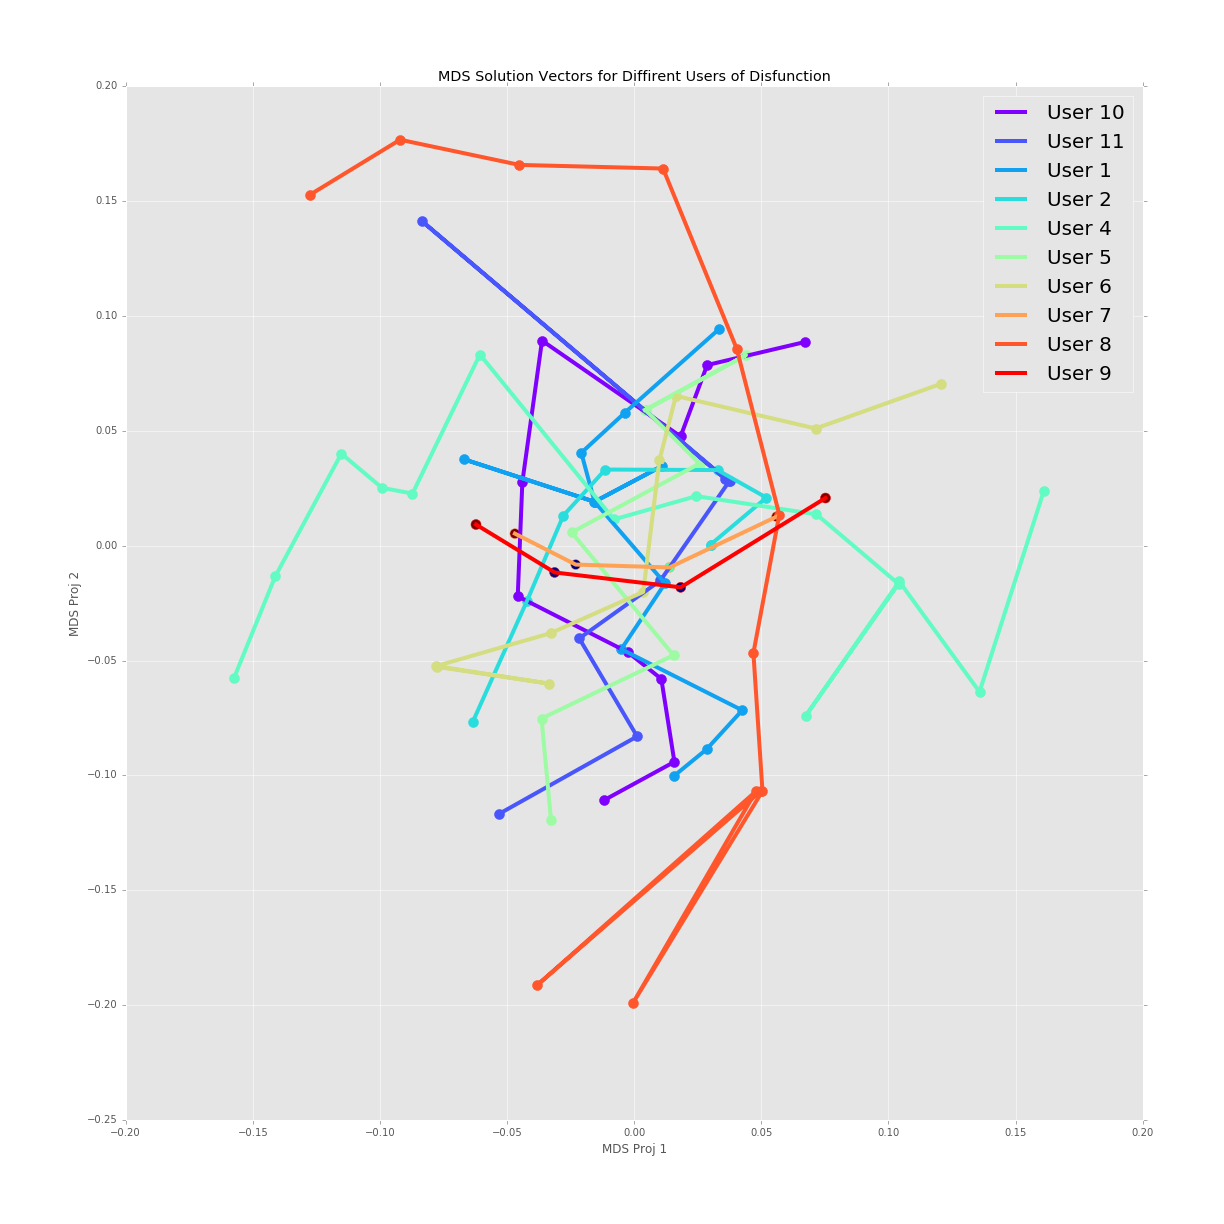
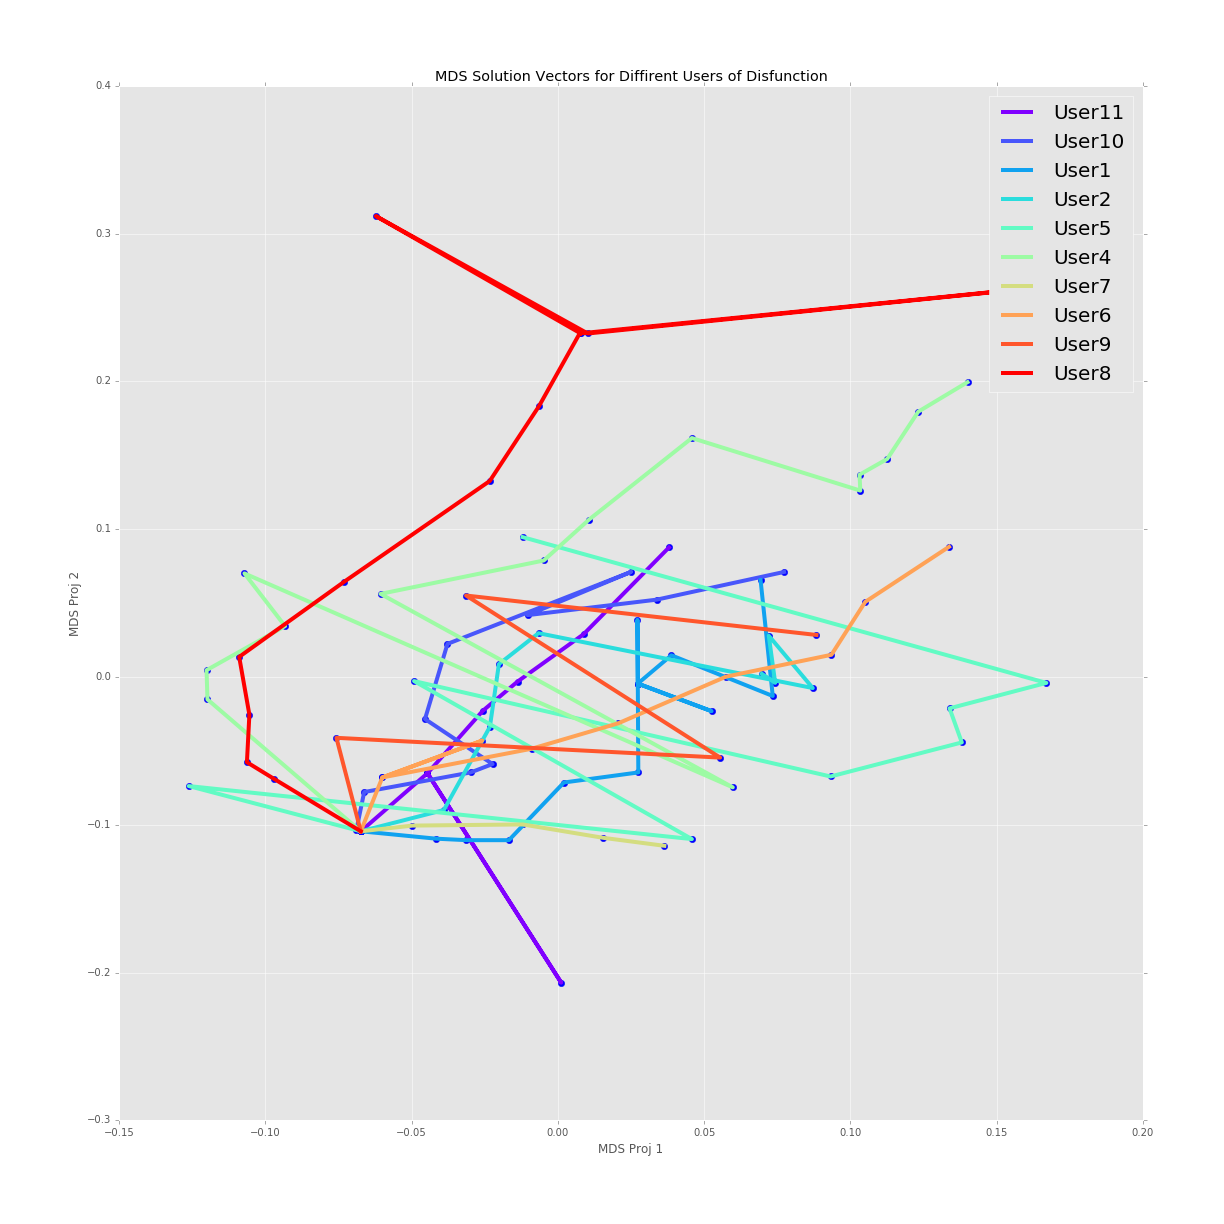
MDS code changed, initial start added

diff --git a/readLogFiles.py b/readLogFiles.py
@@ -30,10 +30,11 @@ from sklearn.manifold import TSNE
 from sklearn.manifold import MDS
 import datetime
 import random
+from sklearn.decomposition import PCA
 
 
-os.chdir('/Users/Sriram/Desktop/DePaul/model-space-analysis')
-#os.chdir('C:/Users/SYARLAG1/Desktop/Model-Space-Analysis')
+#os.chdir('/Users/Sriram/Desktop/DePaul/model-space-analysis')
+os.chdir('C:/Users/SYARLAG1/Desktop/Model-Space-Analysis')
 
 sampleFile = pickle.load(open('no15812_newproj.pickle'))
 
@@ -47,7 +48,8 @@ def multiSplit(delimiters, string, maxsplit=0):
     regexPattern = '|'.join(map(re.escape, delimiters))
     return re.split(regexPattern, string, maxsplit)
 
-def logFileParse(fileName, random_state=99, reductionMethod = 'mds'):
+def logFileParse(fileName, random_state=99, reductionMethod = 'mds', returnListNoProj = True):
+    global vectorLst
     text = open(fileName, 'r').read()
     delimiters = '__DICT1__','__DICT2__', 'normed result theta:','Performing CLOSER transform','__END__'
     textLst = multiSplit(delimiters, text)
@@ -70,12 +72,53 @@ def logFileParse(fileName, random_state=99, reductionMethod = 'mds'):
                 vectorLst.append(vectorLst[-2])
             else:
                 vectorLst.append(line.split(','))
+    vectorLst.insert(0,[1./len(vectorLst[1])]*len(vectorLst[1]))#Adding the starting point as all 1s
+    if returnListNoProj: return len(vectorLst),vectorLst 
     vectorMat = np.array(vectorLst, dtype='float64')
     if reductionMethod == 'tsne': redVectorMat = TSNE(n_components=2, random_state=random_state).fit_transform(vectorMat)
     if reductionMethod == 'mds': 
         redVectorMat = MDS(n_components=2, random_state=random_state,dissimilarity='euclidean').fit_transform(vectorMat)
     return redVectorMat
 
+####################Running the function and generating the MDS proj#######
+os.chdir('./user_sequence_data')
+logFileLst = os.listdir('./')
+
+fullLst = []
+lstCounts = {}
+for log in logFileLst:
+    print log
+    name = log[1:2]
+    if len(log) == 11: name = log[1:3]
+    logSize, logLst = logFileParse(log)
+    fullLst = fullLst + logLst
+    lstCounts[name] = logSize
+
+'''
+vectorMat = np.array(fullLst, dtype='float64')
+start = 0; end = 0 
+lstDict = {}
+for logID in ['10','11','1','2','4','5','6','7','8','9']:
+    end = end + lstCounts[logID]
+    print start, ' ', end
+    lstDict[logID] = vectorMat[start:end]
+    start = end
+'''
+
+
+##Performing MDS on the entire data:
+vectorMat = np.array(fullLst, dtype='float64')
+redVectorMat = MDS(n_components=2, random_state=99,dissimilarity='euclidean').fit_transform(vectorMat)
+#redVectorMat = PCA(n_components=2).fit_transform(vectorMat)
+
+start = 0; end = 0 
+MDSresultDict = {}
+for logID in ['10','11','1','2','4','5','6','7','8','9']:
+    end = end + lstCounts[logID]
+    MDSresultDict[logID] = redVectorMat[start:end]
+    start = end
+
+os.chdir('./..')
 
 ####Randomly generating the logs list in the dictionary
 dateTime = []; marker = ['DOC_MOUSEOVER']*len(range(0,501,5)); info = [12,34]*len(range(0,501,5))
@@ -101,17 +144,13 @@ for i in range(20):
 subInsights = {'insights':{random.choice(insightNames):1, 'notes':'xyz', 'time':random.choice(insightsTime)} for x in range(20)}
 
 
-######Putting it all together
-os.chdir('./user_sequence_data')
-logFileLst = os.listdir('./')
-
+######Putting it all together for ModelSpace.py ##########
 userModelDict = {}
 
-for log in logFileLst:
-    name = log[1:2]
-    if len(log) == 11: name = log[1:3]
+for logID in MDSresultDict.keys():
+    name = 'User' + logID
     userModelDict[name] = {}
-    MDSVals = logFileParse(log) 
+    MDSVals = MDSresultDict[logID]
     MDSValsTuple = [tuple(x) for x in MDSVals] 
     userModelDict[name]['initLayoutPoint'] = MDSValsTuple[0]
     userModelDict[name]['layouts'] = MDSValsTuple[1:]
@@ -143,21 +182,17 @@ import matplotlib.pyplot as plt
 from matplotlib.pyplot import cm 
 plt.style.use('ggplot')
 
-os.chdir('./user_sequence_data')
-logFileLst = os.listdir('./')
-
-
 colors=cm.rainbow(np.linspace(0,1,10))
 
 fig = plt.figure(figsize=(17,17))
 ax = fig.add_subplot(111)
 
-for color, log in zip(colors,logFileLst):
-    name = 'User ' + log[1:2]
-    if len(log) == 11: name = 'User ' + log[1:3]
-    MDSVals = logFileParse(log)
-    ax.scatter(MDSVals[:,0], MDSVals[:,1], color = color)
+for color, logID in zip(colors,MDSresultDict.keys()):
+    name = 'User' + logID
+    MDSVals = MDSresultDict[logID]
+    ax.scatter(MDSVals[:,0], MDSVals[:,1], color = 'b', s=40)
     ax.plot(MDSVals[:,0], MDSVals[:,1], '-', color = color, label = name, linewidth=4)
+
 
 ax.legend()
 plt.xlabel('MDS Proj 1'); plt.ylabel('MDS Proj 2')
